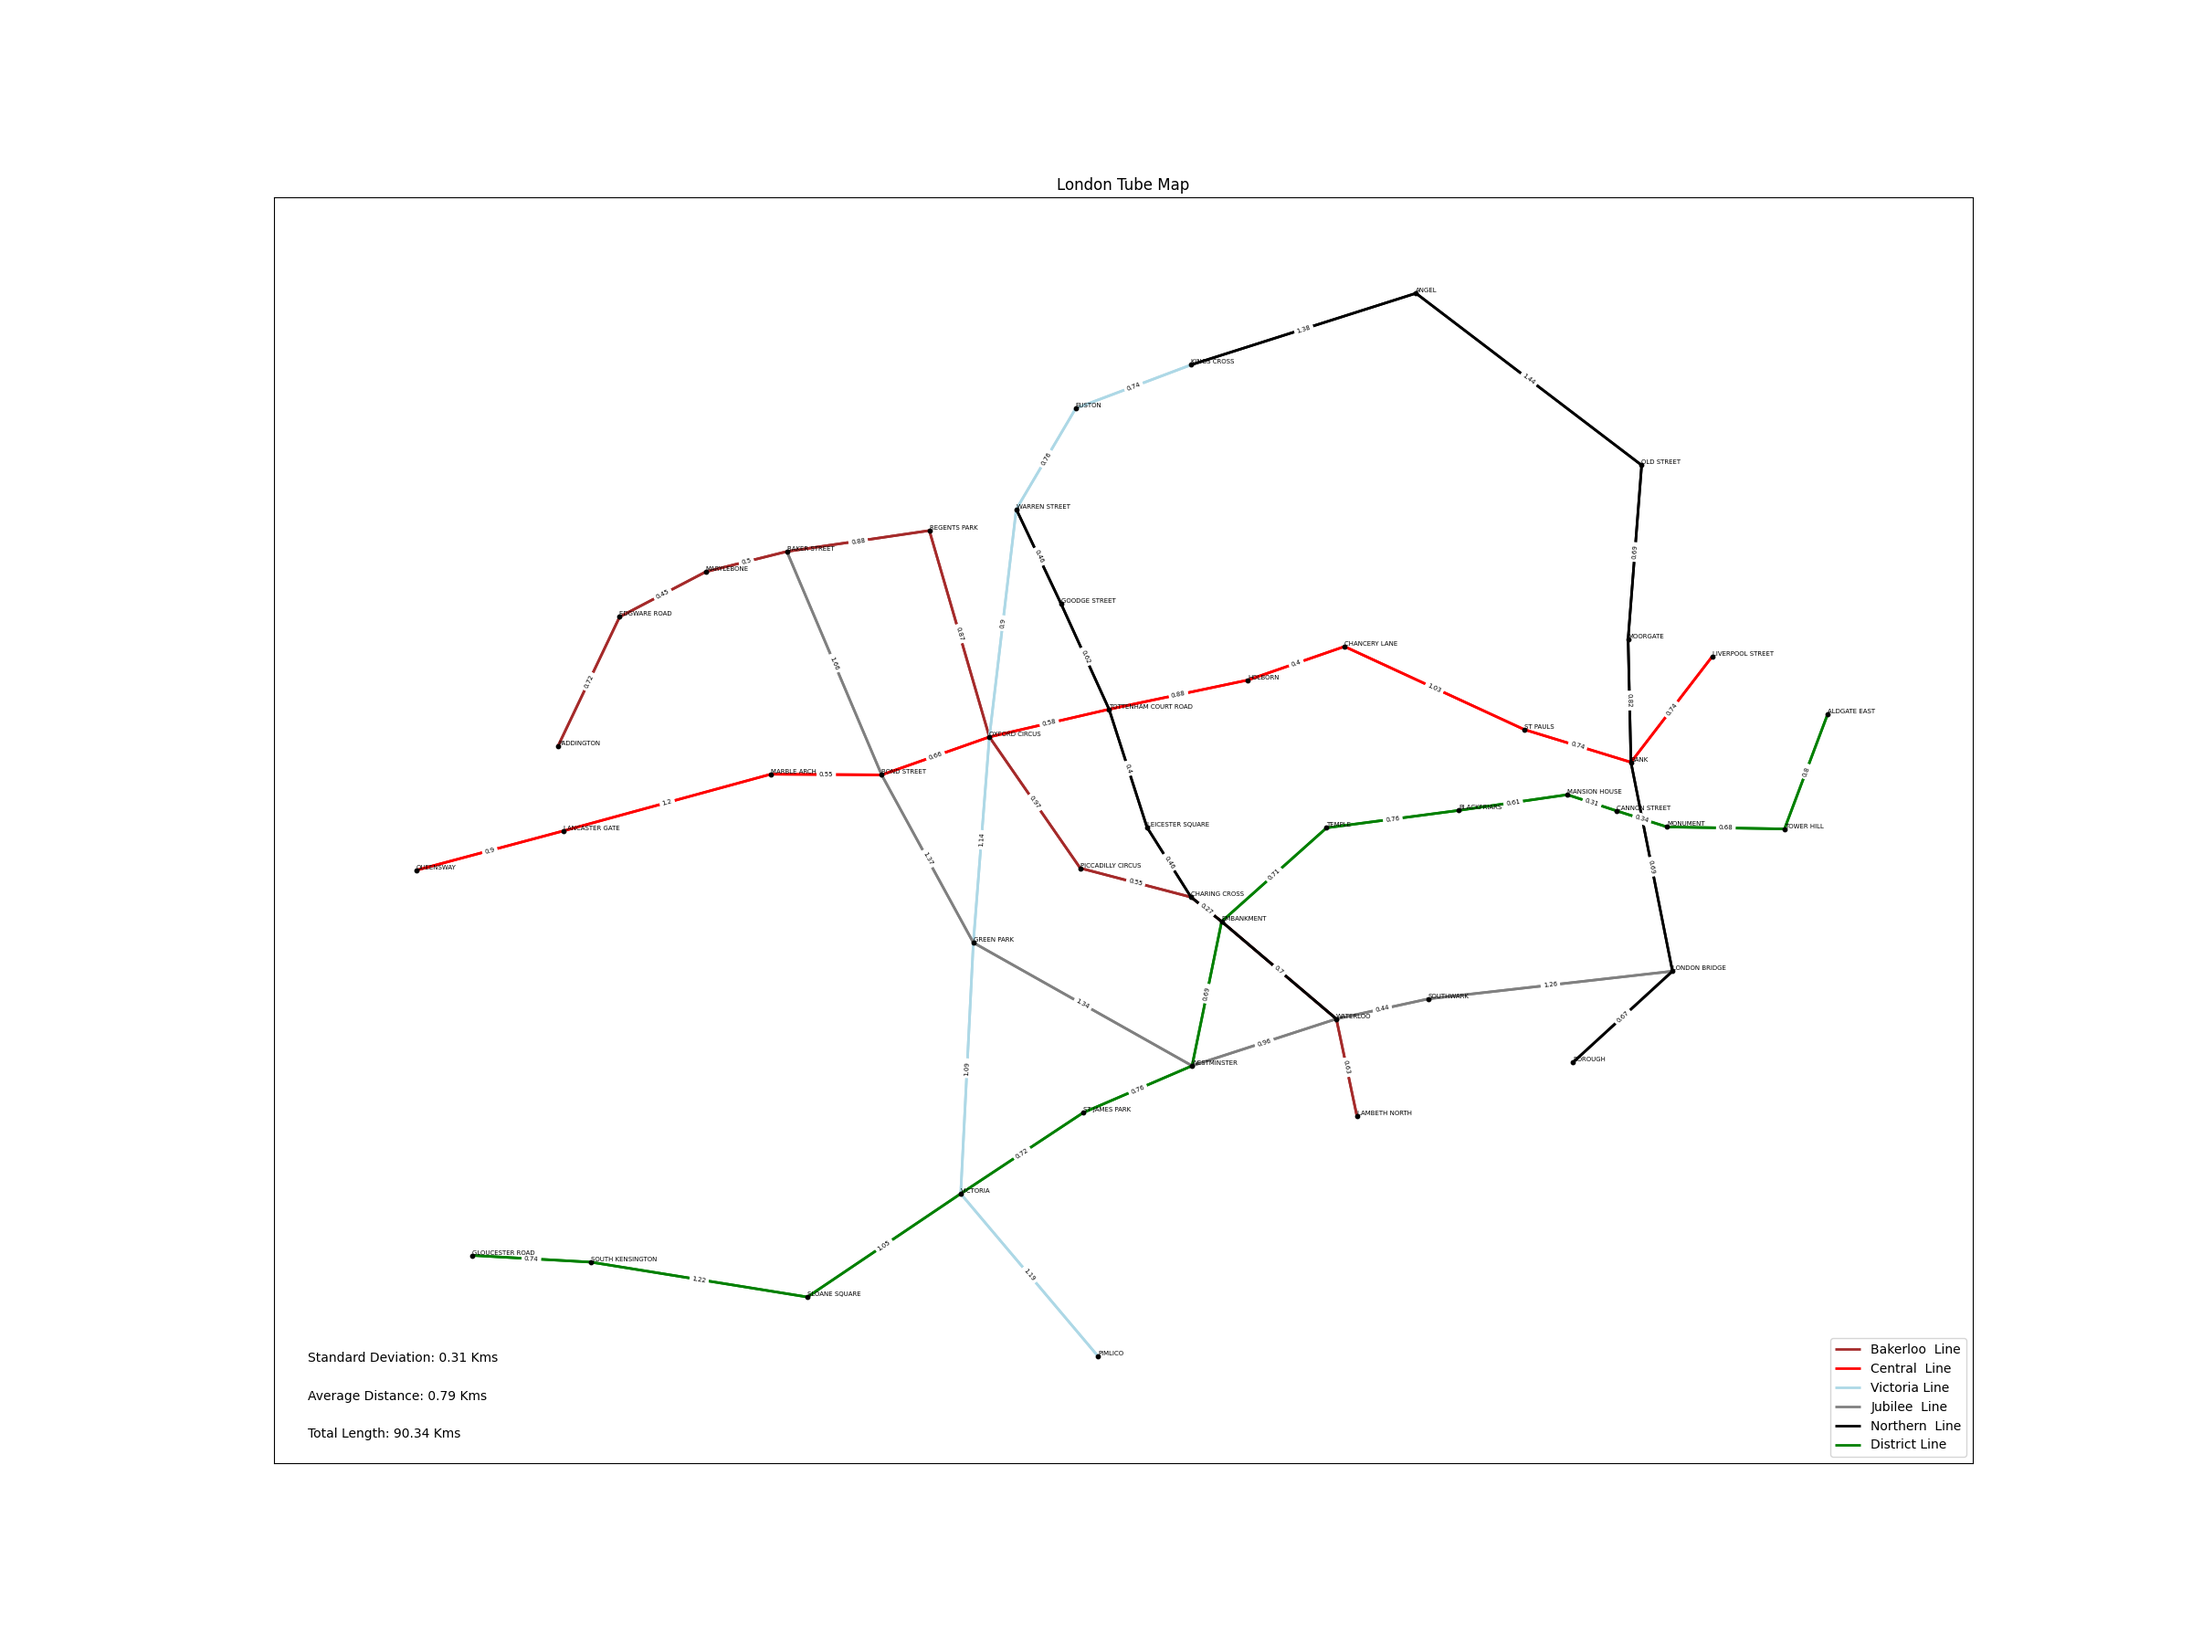
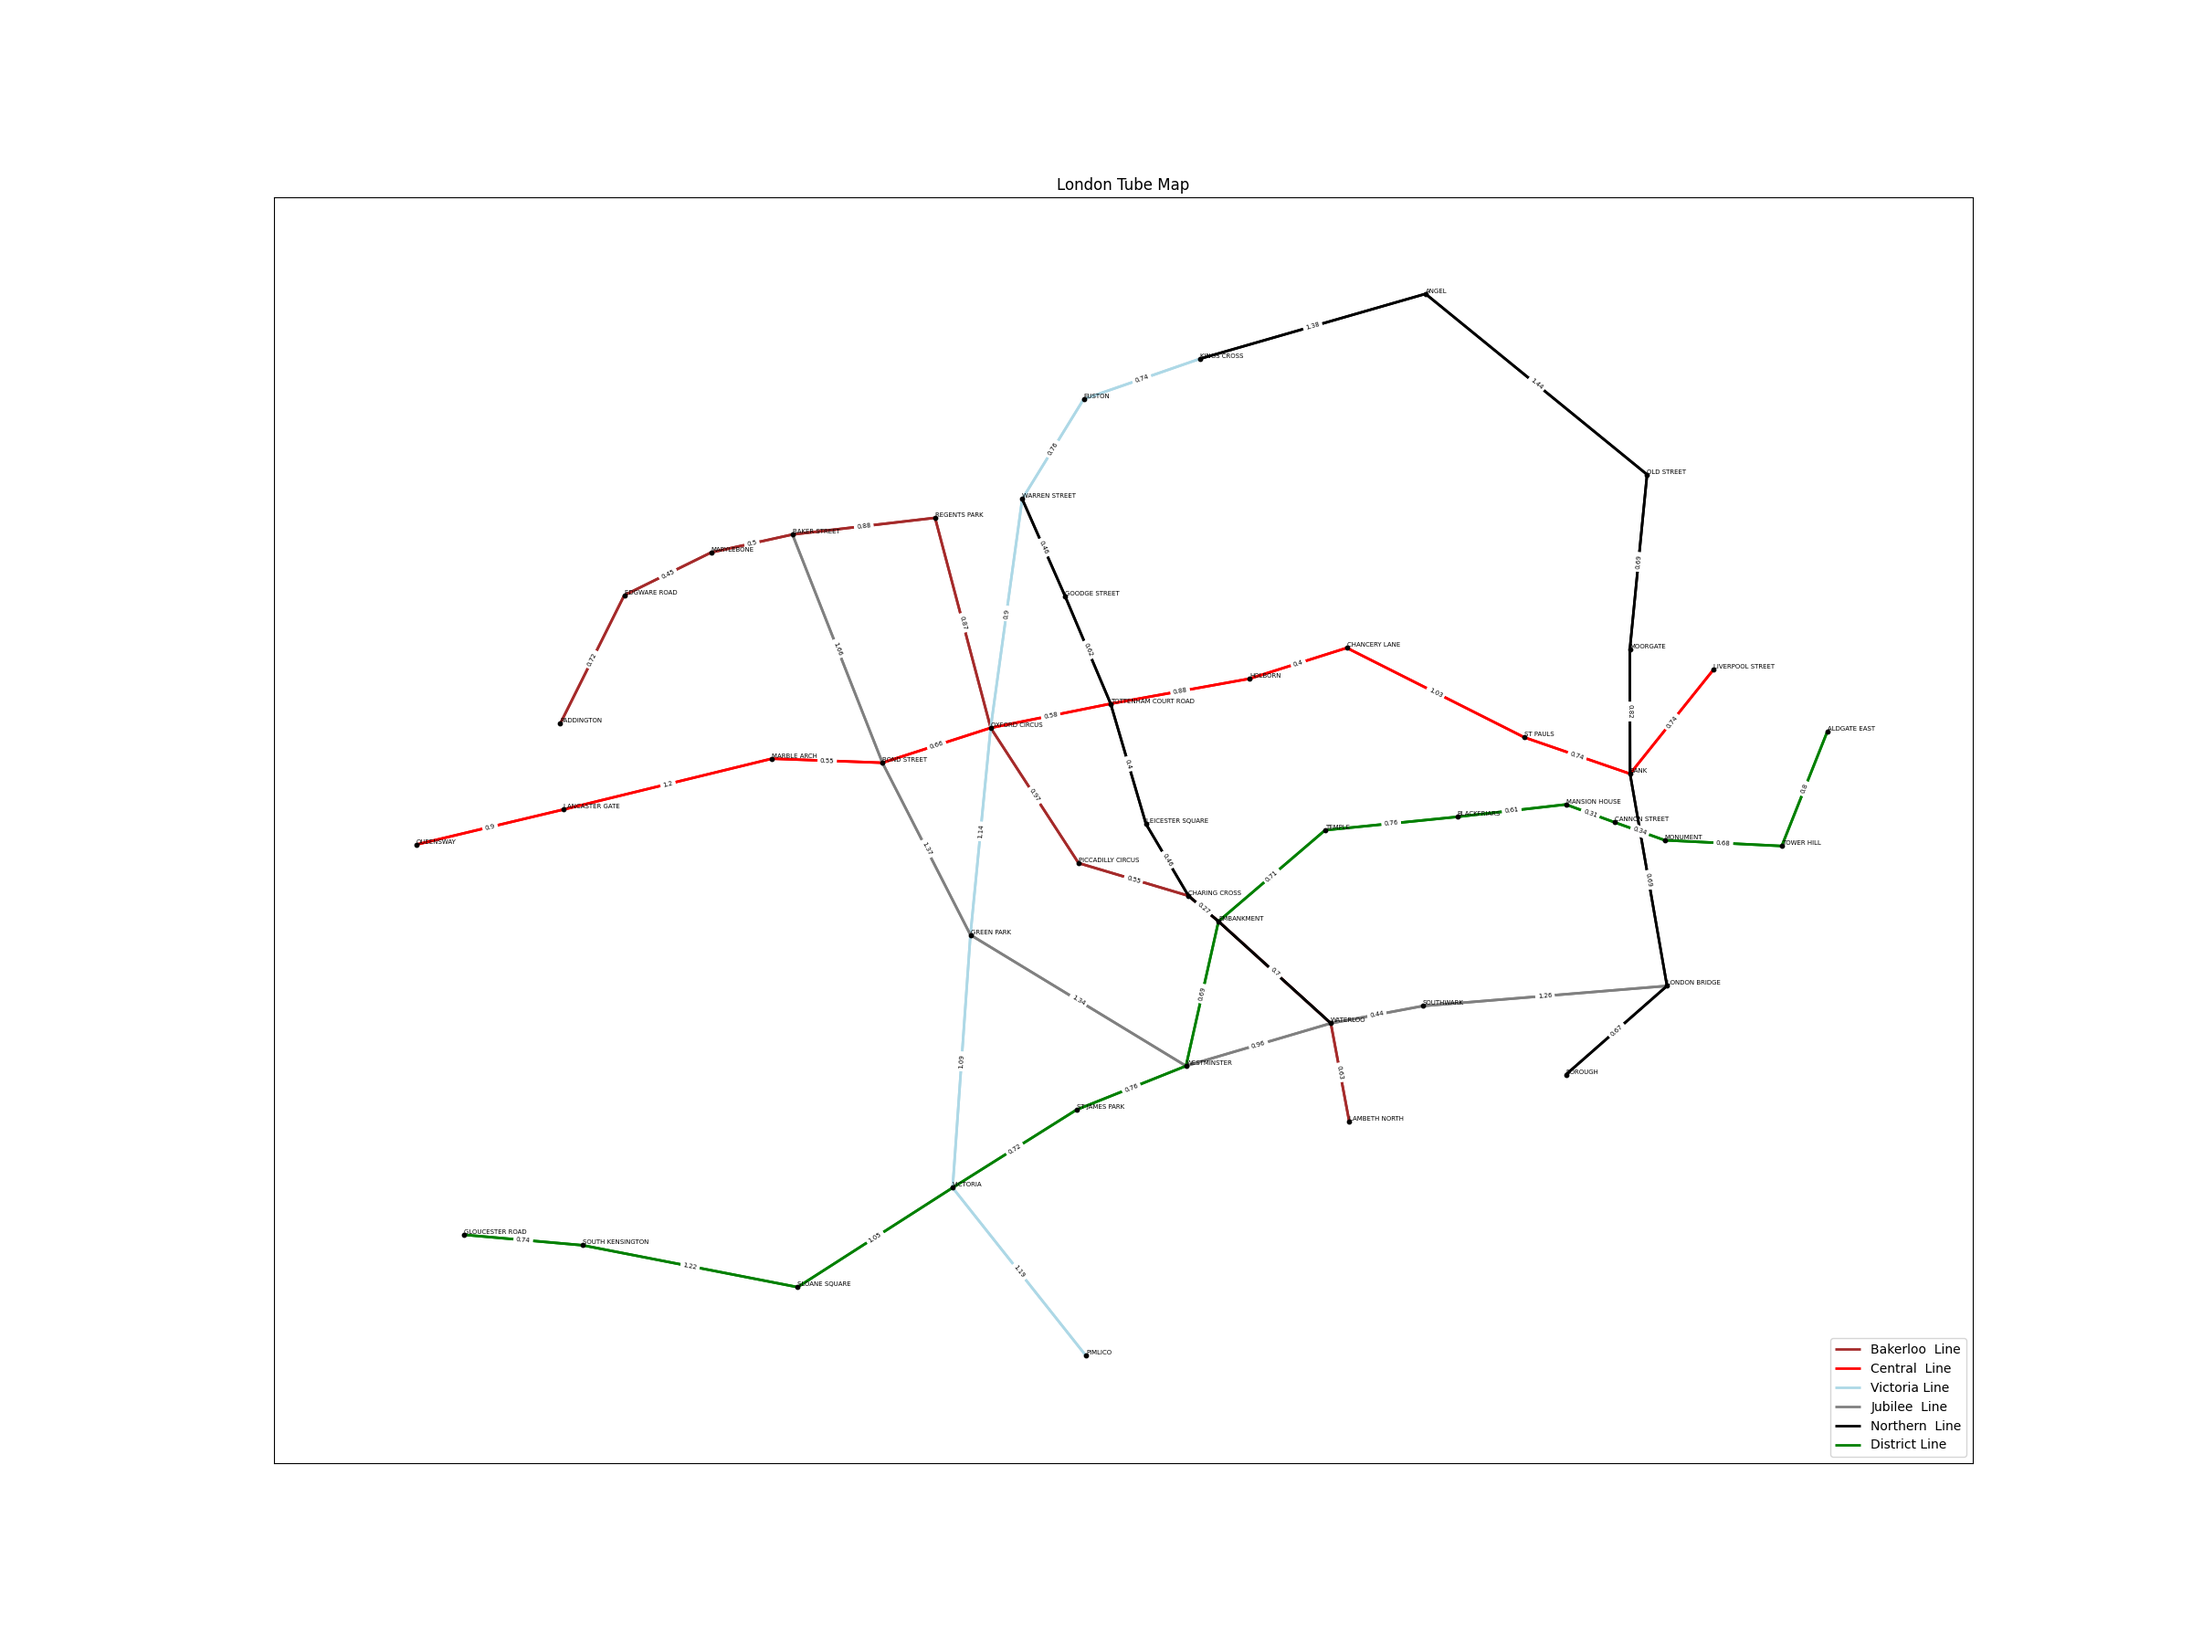
add task 3

diff --git a/task3.py b/task3.py
@@ -12,13 +12,28 @@ def load_coordinates(coordinates_file, zone='1'):
     station_coordinates = {}
     for _, row in coordinates_data.iterrows():
         if row['Zone'] == zone:
-            station_coordinates[row['Station']] = (row['Longitude'], row['Latitude'])
+            station_coordinates[row['Station']] = (row['OS X'], row['OS Y'])
     return station_coordinates
 
 def get_node_positions(G, station_coordinates):
     default_position = (0, 0)  
     pos = {node: station_coordinates.get(node, default_position) for node in G.nodes()}
     return pos
+
+def calculate_statistics(df):
+    total_length = df['Distance (Kms)'].sum()
+    average_distance = df['Distance (Kms)'].mean()
+    std_distance = df['Distance (Kms)'].std()
+    return total_length, average_distance, std_distance
+
+def find_best_route(G, start_station, end_station):
+    try:
+        best_route = nx.dijkstra_path(G, start_station, end_station, weight='weight')
+        best_distance = nx.dijkstra_path_length(G, start_station, end_station, weight='weight')
+    except nx.NetworkXNoPath:
+        best_route = None
+        best_distance = float('inf')
+    return best_route, best_distance
 
 # Create a graph
 g = nx.Graph()
@@ -39,7 +54,29 @@ for _, row in df.iterrows():
 # Get positions for the nodes
 pos = get_node_positions(g, station_coordinates)
 
-# Add nodes to the graph
+# Calculate statistics
+total_length, average_distance, std_distance = calculate_statistics(df)
+
+# Input stations
+start_station = 'CHANCERY LANE'  # Replace with actual station name
+end_station = 'OLD STREET'    # Replace with actual station name
+
+# Find best route
+best_route, best_distance = find_best_route(g, start_station, end_station)
+
+# Print the route
+if best_route:
+    print(f"Best route from {start_station} to {end_station}:")
+    for i in range(len(best_route) - 1):
+        print(f"{best_route[i]} -> {best_route[i + 1]}: {g[best_route[i]][best_route[i + 1]]['weight']} Kms")
+    print(f"Total distance: {best_distance:.2f} Kms")
+else:
+    print(f"No path found from {start_station} to {end_station}")
+
+# Visualization
+plt.figure(figsize=(24, 18))
+
+# Draw the edges for each line with different colors and labels for each line 
 lines = df['Line'].unique()
 colors = {
     'Bakerloo ': 'brown',
@@ -56,11 +93,7 @@ colors = {
     'DLR': 'orange',
 }
 
-plt.figure(figsize=(24, 18))
-
-# Draw the graph
-# Draw the edges for each line with different colors and labels for each line 
-for i, line in enumerate(lines):
+for line in lines:
     line_data = df[df['Line'] == line]
     edges = [(row['Station from (A)'], row['Station to (B)']) for _, row in line_data.iterrows()]
     nx.draw_networkx_edges(g, pos, edgelist=edges, edge_color=colors[line], width=2, label=f'{line} Line')
@@ -74,8 +107,18 @@ for node, (x, y) in pos.items():
 edge_labels = {(row['Station from (A)'], row['Station to (B)']): row['Distance (Kms)'] for _, row in df.iterrows()}
 nx.draw_networkx_edge_labels(g, pos, edge_labels=edge_labels, font_size=5, font_color='black')
 
+# Highlight best route
+if best_route:
+    best_route_edges = list(zip(best_route[:-1], best_route[1:]))
+    nx.draw_networkx_edges(g, pos, edgelist=best_route_edges, edge_color='gold', width=3, label='Best Route')
+
 plt.legend(loc='lower right', fontsize=10)
 plt.title('London Tube Map')
+# Add total length, average distance and standard deviation to the plot
+plt.text(0.02, 0.02, f'Total Length: {total_length:.2f} Kms', transform=plt.gca().transAxes, fontsize=10)
+plt.text(0.02, 0.05, f'Average Distance: {average_distance:.2f} Kms', transform=plt.gca().transAxes, fontsize=10)
+plt.text(0.02, 0.08, f'Standard Deviation: {std_distance:.2f} Kms', transform=plt.gca().transAxes, fontsize=10)
+plt.text(0.02, 0.11, f'Best Distance: {best_distance:.2f} Kms', transform=plt.gca().transAxes, fontsize=10)
 
-plt.savefig('before.png')
+plt.savefig('tube_map_with_best_route.png')
 plt.show()

diff --git a/tempCodeRunnerFile.py b/tempCodeRunnerFile.py
@@ -1,0 +1,1 @@
+Latitude
